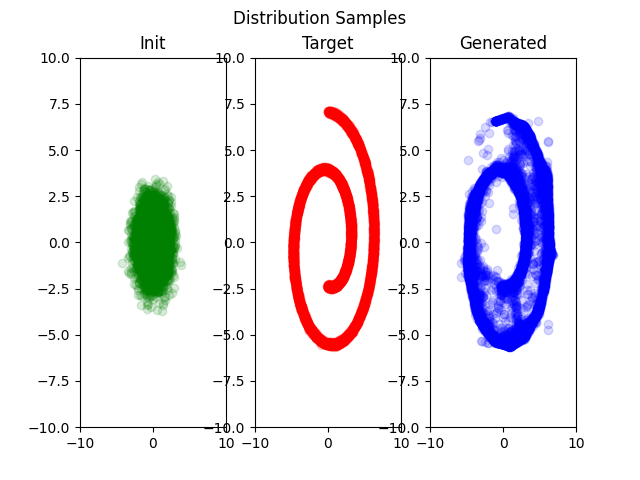
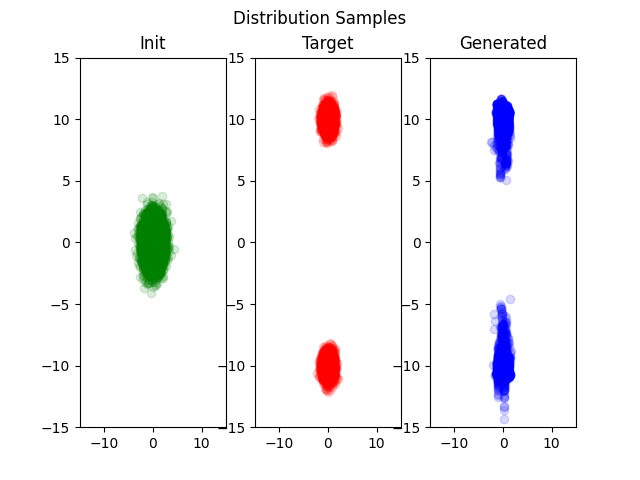
rerun the gaussian mixture case with different tt-ranks and modified graphs

diff --git a/tt_rectified_flow/tt_rectified_flow.py b/tt_rectified_flow/tt_rectified_flow.py
@@ -152,7 +152,7 @@ def draw_plot(model, z0, z1, N, tt_rank):
 if __name__ == '__main__':
 
     D = 10.0  # 10.0
-    limits = (-D, D )
+    limits = (-15, 15)
     var: float = 0.3
     n_comp: int = 2
     n_samples: int = 10_000
@@ -174,13 +174,13 @@ if __name__ == '__main__':
 
     samples_0 = initial_model.sample(torch.Size((n_samples,)))
     # samples from Gaussian Mixture
-    # samples_1 = target_model.sample(torch.Size((n_samples,)))
+    samples_1 = target_model.sample(torch.Size((n_samples,)))
     # samples from 2D swissroll
     # Same code from
     # 1 ) https://github.com/Jmkernes/Diffusion/blob/main/diffusion/ddpm/main.py#L44
     # 2 ) https://github.com/MaximeVandegar/Papers-in-100-Lines-of-Code/blob/main/Deep_Unsupervised_Learning_using_Nonequilibrium_Thermodynamics/diffusion_models.py#L12
     # 3 ) https://github.com/mbaddar1/Diffusion/blob/281e453d66d413976bc069c75d736c6df3c4a9de/diffusion/ddpm/main.py#L50
-    samples_1 = torch.tensor(make_swiss_roll(n_samples=n_samples, noise=1e-1)[0][:, [0, 2]] / 2.0)
+    # samples_1 = torch.tensor(make_swiss_roll(n_samples=n_samples, noise=1e-1)[0][:, [0, 2]] / 2.0)
     # plot the samples
     plt.figure(figsize=(4, 4))
     plt.title(r"Samples from $\pi_0$ and $\pi_1$")
